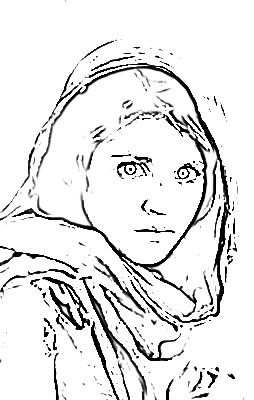
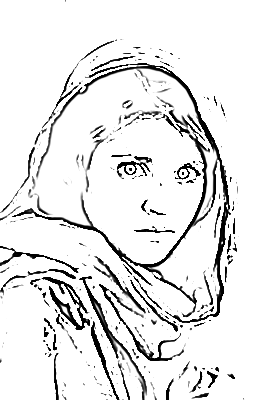
small fixed of bugs

diff --git a/Assignemnt 1/abstraction.py b/Assignemnt 1/abstraction.py
@@ -44,7 +44,6 @@ def luminance_quantization(im):
         quantization_steps_tmp.append(i * delta_differ)
 
     quantization_steps = np.array(quantization_steps_tmp)
-
     im_tmp_dim = im[:, :, np.newaxis]
     quantization_estimation = quantization_steps[np.newaxis, np.newaxis, :]
 
@@ -61,31 +60,31 @@ def bilateral_gaussian(im):
     Implement the bilateral Gaussian filter (Eq. 3).
     Apply it to the padded image.
     '''
+
     print("Starting bilateral_gaussian()")
+
     win_size = 2 * r + 1
     win_shape = (win_size, win_size, 3)
-    windows_neighborhoods_pixels = ns.sliding_window_view(padded, window_shape=win_shape) #shape (400, 254, 1, 17, 17, 3)
+    windows_neighborhoods_pixels = ns.sliding_window_view(padded, window_shape=win_shape)
 
-    # equation 2)
     y, x = np.mgrid[-r:r+1, -r:r+1]
-    norm_inf = np.maximum(np.abs(x), np.abs(y))
-    spatial_weights = np.exp(-norm_inf**2 / (2 * sigma_s ** 2)) #shape (17, 17) (∥p − q∥_infitiny norm)
+    norm = x ** 2 + y ** 2
+    spatial_weights = np.exp(-norm / (2 * sigma_s ** 2))
 
-    # center of window = current pixel
     U = np.ones_like(im)
 
     for x_coord in range(0, 400):
         for y_coord in range(0, 254):
             cur_window = windows_neighborhoods_pixels[x_coord][y_coord][0]
 
-            F_p = cur_window[r, r]
-            intensity_diff = np.linalg.norm(F_p - cur_window, axis=2, ord=2)
-            intensity_weights = np.exp(-intensity_diff ** 2 / (2 * sigma_r ** 2))  # shape (17, 17) (∥F(p) − F(q)∥_2)
+            F_p = im[x_coord, y_coord]
+            intensity_diff = np.linalg.norm(cur_window - F_p, axis=2, ord=2)
+            intensity_weights = np.exp(-intensity_diff ** 2 / (2 * sigma_r ** 2))
 
-            pixel_weights = spatial_weights * intensity_weights
-            pixel_weights = spatial_weights * pixel_weights
-            weighted_sum = np.sum(pixel_weights[..., None] * cur_window, axis=(0, 1)) #check this part
-            U[x_coord, y_coord] = weighted_sum / np.sum(pixel_weights)
+            pixel_weights_all = spatial_weights * intensity_weights
+
+            weighted_sum = np.sum(pixel_weights_all[:, :, None] * cur_window, axis=(0, 1))
+            U[x_coord, y_coord] = weighted_sum / np.sum(pixel_weights_all)
     return U
 
 
@@ -110,16 +109,14 @@ def abstraction(im):
 
     luminance_quantized = luminance_quantization(filtered[:, :, 0])
 
-    imageio.imsave('luminance_quantized.png', np.uint8(luminance_quantized)) #this is too dark, has to be lighter
-
     '''Get the final image by merging the channels properly'''
 
-    combined = filtered  # Todo
+    filtered[:, :, 0] = luminance_quantized * edges
+    combined = filtered
     return skc.lab2rgb(combined)
 
 
 if __name__ == '__main__':
-    print(imageio.imread('reference.png'))
     # Algorithm
     n_e = 2
     n_b = 4
@@ -137,6 +134,10 @@ if __name__ == '__main__':
     im = imageio.imread('girl.png') / 255.
     abstracted = abstraction(im)
 
-    abstracted = (np.clip(abstracted, 0, 1) * 255).astype(np.uint8) # professor put the this part in teach center
+    abstracted = (abstracted * 255).astype(np.uint8)
     imageio.imsave('abstracted.png', abstracted)
+    #mse = np.mean((im - (abstracted / 255)) ** 2)
+    #print(mse)
+
+
 
